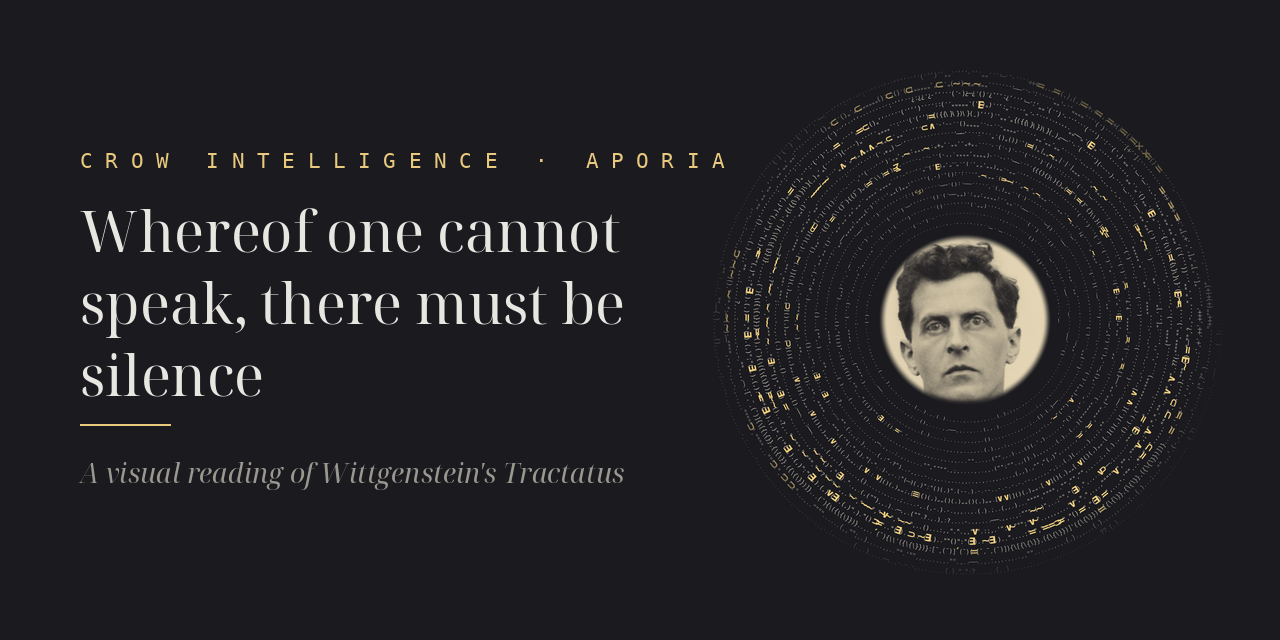
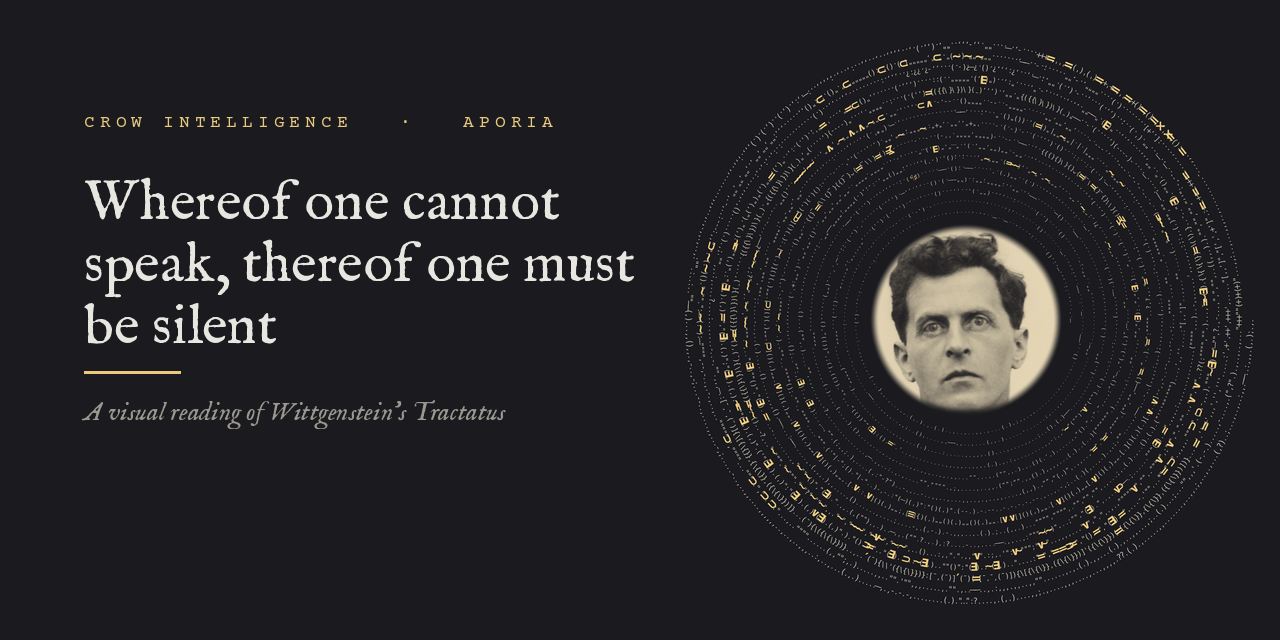
Wittgenstein: regenerate social preview, align twitter desc, add JSON-LD
- Regenerate aporia/wittgenstein/imgs/social-preview.png with the corrected
  title "Whereof one cannot speak, thereof one must be silent" — the PNG
  had the old wording baked in and was what every social share would show.
- Align twitter:description with og:description (was a shortened variant).
- Add an Article JSON-LD block so search engines see this as an article
  with a headline, image, publisher, and an isPartOf reference to Aporia.

diff --git a/aporia/wittgenstein/index.html b/aporia/wittgenstein/index.html
@@ -31,8 +31,47 @@
   <meta name="twitter:card" content="summary_large_image">
   <meta name="twitter:title" content="Whereof one cannot speak, thereof one must be silent">
   <meta name="twitter:description"
-        content="A visual reading of Wittgenstein's Tractatus as a handwritten spiral.">
+        content="A visual reading of Wittgenstein's Tractatus: 2,025 sentences as a handwritten spiral, sized by centrality and coloured by community.">
   <meta name="twitter:image" content="https://crowintelligence.org/aporia/wittgenstein/imgs/social-preview.png">
+
+  <script type="application/ld+json">
+  {
+    "@context": "https://schema.org",
+    "@type": "Article",
+    "headline": "Whereof one cannot speak, thereof one must be silent",
+    "description": "A visual reading of Wittgenstein's Tractatus: 2,025 sentences as a handwritten spiral, sized by centrality and coloured by community.",
+    "image": "https://crowintelligence.org/aporia/wittgenstein/imgs/social-preview.png",
+    "url": "https://crowintelligence.org/aporia/wittgenstein/",
+    "datePublished": "2026-05-19",
+    "inLanguage": "en",
+    "isPartOf": {
+      "@type": "CreativeWorkSeries",
+      "name": "Aporia",
+      "url": "https://crowintelligence.org/aporia/"
+    },
+    "author": {
+      "@type": "Organization",
+      "name": "Crow Intelligence",
+      "url": "https://crowintelligence.org/"
+    },
+    "publisher": {
+      "@type": "Organization",
+      "name": "Crow Intelligence",
+      "url": "https://crowintelligence.org/",
+      "logo": {
+        "@type": "ImageObject",
+        "url": "https://crowintelligence.org/logos/brand/crow-intelligence.svg"
+      }
+    },
+    "about": [
+      "Ludwig Wittgenstein",
+      "Tractatus Logico-Philosophicus",
+      "Network analysis",
+      "PageRank",
+      "Louvain community detection"
+    ]
+  }
+  </script>
 
   <link rel="preconnect" href="https://fonts.googleapis.com">
   <link rel="preconnect" href="https://fonts.gstatic.com" crossorigin>
